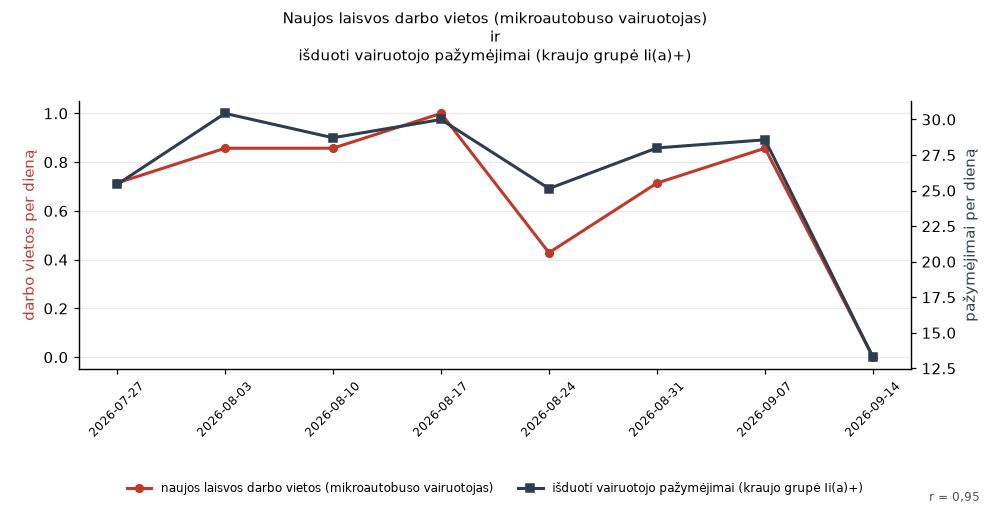
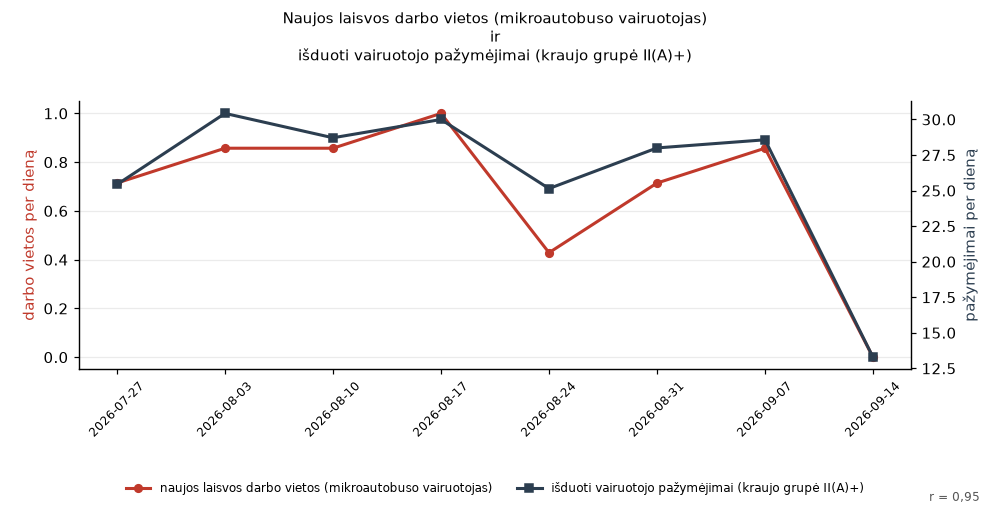
Post: blood group label

Changed region(s): [[0.303, 0.0889, 0.697, 0.1186], [0.1515, 0.9486, 0.5152, 0.9783], [0.5455, 0.9486, 0.8788, 0.9783]]

diff --git a/post/2026-10-23-9dcb4056/index.html b/post/2026-10-23-9dcb4056/index.html
@@ -1,10 +1,10 @@
 <!doctype html>
 <html lang="lt"><head><meta charset="utf-8">
 <meta name="viewport" content="width=device-width, initial-scale=1">
-<title>Pastaraisiais mėnesiais lyg tyčia sutapo: naujos laisvos darbo vietos (mikroautobuso vairuotojas) ir išduoti vairuotojo pažymėjimai (kraujo grupė Ii(a)+) · Lyg tyčia</title>
+<title>Pastaraisiais mėnesiais lyg tyčia sutapo: naujos laisvos darbo vietos (mikroautobuso vairuotojas) ir išduoti vairuotojo pažymėjimai (kraujo grupė II(A)+) · Lyg tyčia</title>
 <meta property="og:type" content="article">
 <meta property="og:site_name" content="Lyg tyčia">
-<meta property="og:title" content="Pastaraisiais mėnesiais lyg tyčia sutapo: naujos laisvos darbo vietos (mikroautobuso vairuotojas) ir išduoti vairuotojo pažymėjimai (kraujo grupė Ii(a)+)">
+<meta property="og:title" content="Pastaraisiais mėnesiais lyg tyčia sutapo: naujos laisvos darbo vietos (mikroautobuso vairuotojas) ir išduoti vairuotojo pažymėjimai (kraujo grupė II(A)+)">
 <meta property="og:description" content="Naujos laisvos darbo vietos (mikroautobuso vairuotojas) ir išduoti vairuotojo pažymėjimai (kraujo grupė Ii(a)+) kyla ir krenta kartu: r = 0,95 per 8 sav. (2026-07-27 – 2026-09-14).">
 <meta property="og:url" content="https://1gnas3000.github.io/lygtycia/post/2026-10-23-9dcb4056/">
 <meta property="og:image" content="https://1gnas3000.github.io/lygtycia/post/2026-10-23-9dcb4056/chart.png">
@@ -26,18 +26,18 @@
 <article><p class="meta">2026-10-23
  · panašios kreivės · savaitės duomenys
  · r = 0,95</p>
-<h2>Pastaraisiais mėnesiais lyg tyčia sutapo: naujos laisvos darbo vietos (mikroautobuso vairuotojas) ir išduoti vairuotojo pažymėjimai (kraujo grupė Ii(a)+)</h2>
+<h2>Pastaraisiais mėnesiais lyg tyčia sutapo: naujos laisvos darbo vietos (mikroautobuso vairuotojas) ir išduoti vairuotojo pažymėjimai (kraujo grupė II(A)+)</h2>
 
 <p><a href="../../post/2026-10-23-9dcb4056/"><img src="../../post/2026-10-23-9dcb4056/chart.png"
  alt="grafikas" loading="lazy"></a></p>
 <p class="sources">Duomenų šaltiniai:
  <a href="https://get.data.gov.lt/datasets/gov/uzt/ldv/Vieta" rel="noopener">Laisvos darbo vietos (Užimtumo tarnyba)</a> · <a href="https://get.data.gov.lt/datasets/gov/regitra/ktpvr/Pazymejimas" rel="noopener">Išduoti vairuotojo pažymėjimai (Regitra)</a></p>
 
-<p class="text">Naujos laisvos darbo vietos (mikroautobuso vairuotojas) ir išduoti vairuotojo pažymėjimai (kraujo grupė Ii(a)+) kyla ir krenta kartu: r = 0,95 per 8 sav. (2026-07-27 – 2026-09-14).</p><p class="text">Duomenys: „naujos laisvos darbo vietos (mikroautobuso vairuotojas)“ (darbo vietos) ir „išduoti vairuotojo pažymėjimai (kraujo grupė Ii(a)+)“ (pažymėjimai).</p><p class="text">Tyler Vigen&#39;o „Spurious Correlations“ dvasia: iš tūkstančių atsitiktinių Lietuvos atvirų duomenų porų šios dvi nupiešė tą pačią kreivę.</p>
+<p class="text">Naujos laisvos darbo vietos (mikroautobuso vairuotojas) ir išduoti vairuotojo pažymėjimai (kraujo grupė Ii(a)+) kyla ir krenta kartu: r = 0,95 per 8 sav. (2026-07-27 – 2026-09-14).</p><p class="text">Duomenys: „naujos laisvos darbo vietos (mikroautobuso vairuotojas)“ (darbo vietos) ir „išduoti vairuotojo pažymėjimai (kraujo grupė II(A)+)“ (pažymėjimai).</p><p class="text">Tyler Vigen&#39;o „Spurious Correlations“ dvasia: iš tūkstančių atsitiktinių Lietuvos atvirų duomenų porų šios dvi nupiešė tą pačią kreivę.</p>
 <p class="share">Dalintis:
  <a href="https://www.facebook.com/sharer/sharer.php?u=https%3A//1gnas3000.github.io/lygtycia/post/2026-10-23-9dcb4056/"
  rel="noopener">Facebook</a> ·
- <a href="https://mastodonshare.com/?text=Pastaraisiais%20m%C4%97nesiais%20lyg%20ty%C4%8Dia%20sutapo%3A%20naujos%20laisvos%20darbo%20vietos%20%28mikroautobuso%20vairuotojas%29%20ir%20i%C5%A1duoti%20vairuotojo%20pa%C5%BEym%C4%97jimai%20%28kraujo%20grup%C4%97%20Ii%28a%29%2B%29&url=https%3A//1gnas3000.github.io/lygtycia/post/2026-10-23-9dcb4056/"
+ <a href="https://mastodonshare.com/?text=Pastaraisiais%20m%C4%97nesiais%20lyg%20ty%C4%8Dia%20sutapo%3A%20naujos%20laisvos%20darbo%20vietos%20%28mikroautobuso%20vairuotojas%29%20ir%20i%C5%A1duoti%20vairuotojo%20pa%C5%BEym%C4%97jimai%20%28kraujo%20grup%C4%97%20II%28A%29%2B%29&url=https%3A//1gnas3000.github.io/lygtycia/post/2026-10-23-9dcb4056/"
  rel="noopener">Mastodon</a> ·
  <a href="https://www.linkedin.com/sharing/share-offsite/?url=https%3A//1gnas3000.github.io/lygtycia/post/2026-10-23-9dcb4056/"
  rel="noopener">LinkedIn</a></p>

diff --git a/index.html b/index.html
@@ -50,7 +50,7 @@
  <a href="https://www.linkedin.com/sharing/share-offsite/?url=https%3A//1gnas3000.github.io/lygtycia/post/2026-10-23-3547db6a/"
  rel="noopener">LinkedIn</a></p></article>
 <article><p class="meta">2026-10-23</p>
-<h2><a href="./post/2026-10-23-9dcb4056/">Pastaraisiais mėnesiais lyg tyčia sutapo: naujos laisvos darbo vietos (mikroautobuso vairuotojas) ir išduoti vairuotojo pažymėjimai (kraujo grupė Ii(a)+)</a></h2>
+<h2><a href="./post/2026-10-23-9dcb4056/">Pastaraisiais mėnesiais lyg tyčia sutapo: naujos laisvos darbo vietos (mikroautobuso vairuotojas) ir išduoti vairuotojo pažymėjimai (kraujo grupė II(A)+)</a></h2>
 
 <p><a href="./post/2026-10-23-9dcb4056/"><img src="./post/2026-10-23-9dcb4056/chart.png"
  alt="grafikas" loading="lazy"></a></p>
@@ -61,7 +61,7 @@
 <p class="share">Dalintis:
  <a href="https://www.facebook.com/sharer/sharer.php?u=https%3A//1gnas3000.github.io/lygtycia/post/2026-10-23-9dcb4056/"
  rel="noopener">Facebook</a> ·
- <a href="https://mastodonshare.com/?text=Pastaraisiais%20m%C4%97nesiais%20lyg%20ty%C4%8Dia%20sutapo%3A%20naujos%20laisvos%20darbo%20vietos%20%28mikroautobuso%20vairuotojas%29%20ir%20i%C5%A1duoti%20vairuotojo%20pa%C5%BEym%C4%97jimai%20%28kraujo%20grup%C4%97%20Ii%28a%29%2B%29&url=https%3A//1gnas3000.github.io/lygtycia/post/2026-10-23-9dcb4056/"
+ <a href="https://mastodonshare.com/?text=Pastaraisiais%20m%C4%97nesiais%20lyg%20ty%C4%8Dia%20sutapo%3A%20naujos%20laisvos%20darbo%20vietos%20%28mikroautobuso%20vairuotojas%29%20ir%20i%C5%A1duoti%20vairuotojo%20pa%C5%BEym%C4%97jimai%20%28kraujo%20grup%C4%97%20II%28A%29%2B%29&url=https%3A//1gnas3000.github.io/lygtycia/post/2026-10-23-9dcb4056/"
  rel="noopener">Mastodon</a> ·
  <a href="https://www.linkedin.com/sharing/share-offsite/?url=https%3A//1gnas3000.github.io/lygtycia/post/2026-10-23-9dcb4056/"
  rel="noopener">LinkedIn</a></p></article>
